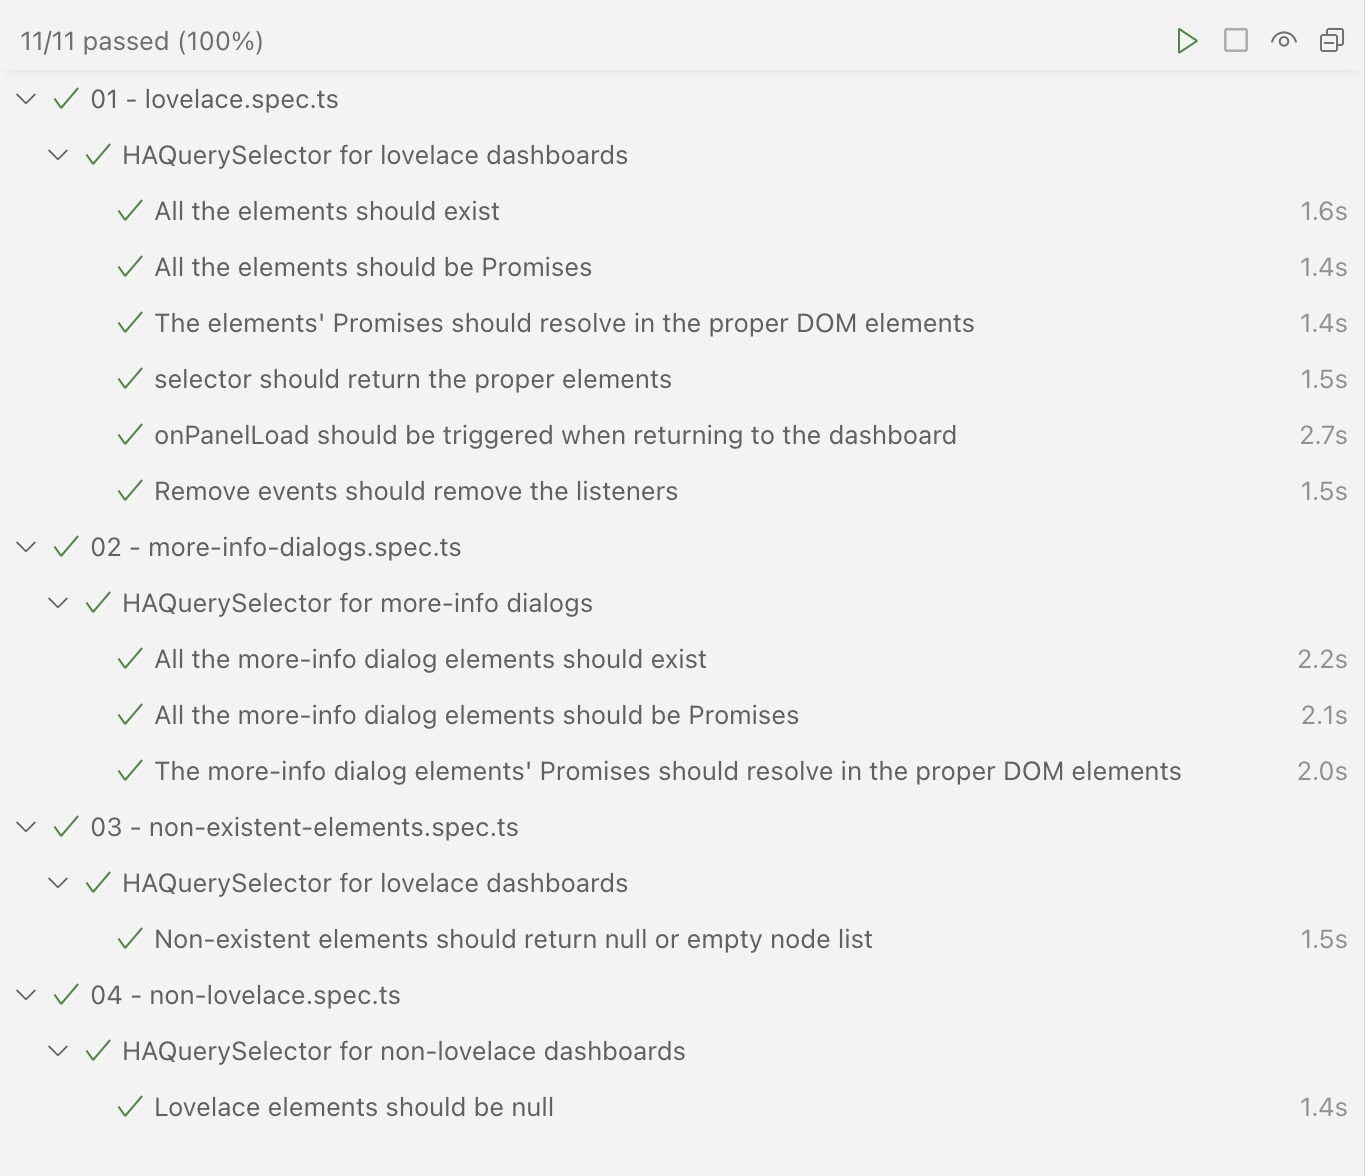
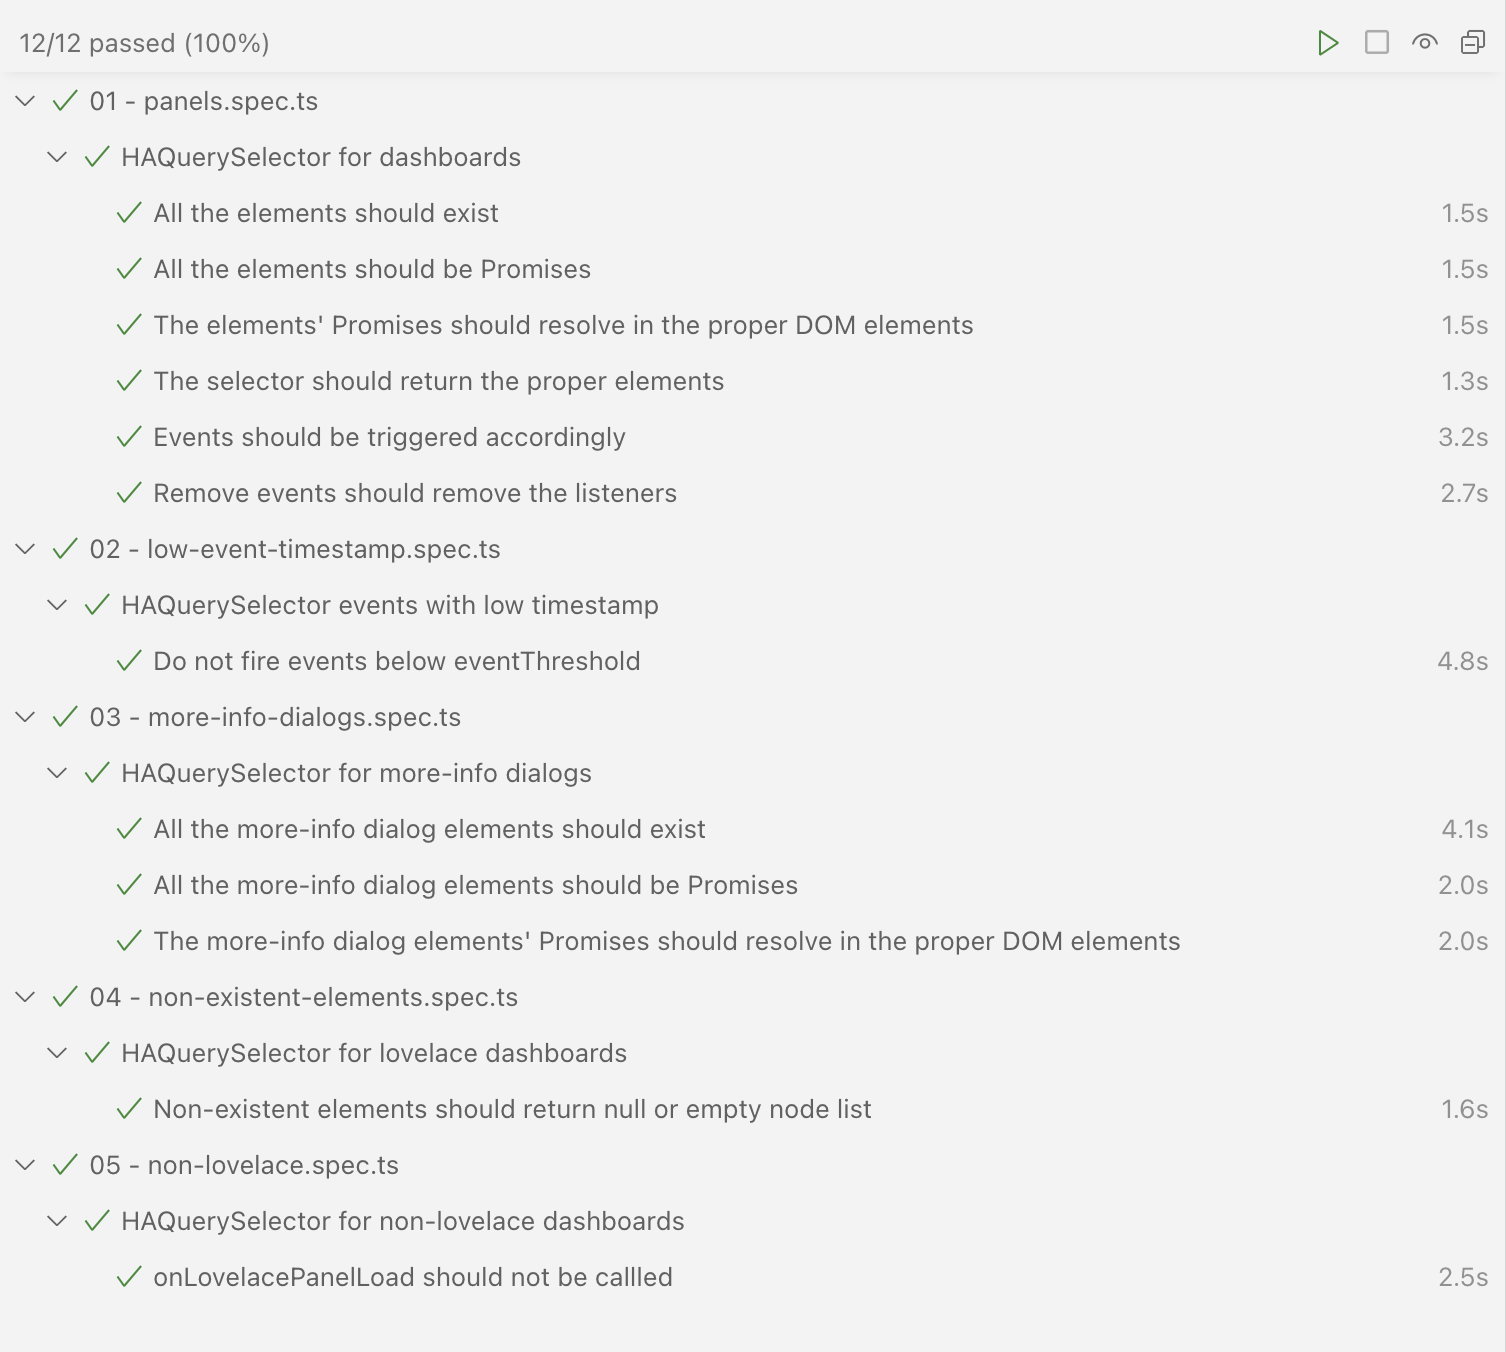
Move event threshold to a configurable option of the library (#48)
* Move event threshold to a configurable option of the library

* Test the eventThreshold property

* Add a delay before starting the eventThreshold tests

* Refactor eventThreshold tests

diff --git a/tests/03 - more-info-dialogs.spec.ts b/tests/03 - more-info-dialogs.spec.ts
@@ -22,21 +22,9 @@ test.describe('HAQuerySelector for more-info dialogs', () => {
 
     test('All the more-info dialog elements should exist', async ({ page }) => {
 
-        let onMoreInfoDialogOpenCalled = await page.evaluate(() => {
-            return window.__onMoreInfoDialogOpen.calledOnce;
-        });
-
-        let onHistoryAndLogBookDialogOpenCalled = await page.evaluate(() => {
-            return window.__onHistoryAndLogBookDialogOpen.calledOnce;
-        });
-
-        let onSettingsDialogOpenCalled = await page.evaluate(() => {
-            return window.__onSettingsDialogOpen.calledOnce;
-        });
-
-        expect(onMoreInfoDialogOpenCalled).toBe(false);
-        expect(onHistoryAndLogBookDialogOpenCalled).toBe(false);
-        expect(onSettingsDialogOpenCalled).toBe(false);
+        expect(await page.evaluate(() => window.__onMoreInfoDialogOpen.calledOnce)).toBe(false);
+        expect(await page.evaluate(() => window.__onHistoryAndLogBookDialogOpen.calledOnce)).toBe(false);
+        expect(await page.evaluate(() => window.__onSettingsDialogOpen.calledOnce)).toBe(false);
 
         // Open a more-info dialog
         await page.locator(SELECTORS.ENTITY_CARD).click();
@@ -44,21 +32,9 @@ test.describe('HAQuerySelector for more-info dialogs', () => {
         await expect(page.locator(SELECTORS.CLOSE_DIALOG)).toBeVisible();
 
         // Only onMoreInfoDialogOpen should be triggered
-        onMoreInfoDialogOpenCalled = await page.evaluate(() => {
-            return window.__onMoreInfoDialogOpen.calledOnce;
-        });
-
-        onHistoryAndLogBookDialogOpenCalled = await page.evaluate(() => {
-            return window.__onHistoryAndLogBookDialogOpen.calledOnce;
-        });
-
-        onSettingsDialogOpenCalled = await page.evaluate(() => {
-            return window.__onSettingsDialogOpen.calledOnce;
-        });
-
-        expect(onMoreInfoDialogOpenCalled).toBe(true);
-        expect(onHistoryAndLogBookDialogOpenCalled).toBe(false);
-        expect(onSettingsDialogOpenCalled).toBe(false);
+        expect(await page.evaluate(() => window.__onMoreInfoDialogOpen.calledOnce)).toBe(true);
+        expect(await page.evaluate(() => window.__onHistoryAndLogBookDialogOpen.calledOnce)).toBe(false);
+        expect(await page.evaluate(() => window.__onSettingsDialogOpen.calledOnce)).toBe(false);
 
         // Check the shape of the onMoreInfoDialogOpen
         const onMoreInfoDialogOpenElements = await page.evaluate(() => window.__onMoreInfoDialogOpen.firstCall.firstArg.detail);
@@ -70,26 +46,16 @@ test.describe('HAQuerySelector for more-info dialogs', () => {
             HA_MORE_INFO_DIALOG_INFO: {}
         });
 
+        await page.waitForTimeout(500);
+
         // Open the history and logbook
         await page.locator(SELECTORS.DIALOG_HISTORY_BUTTON).click();
         await expect(page.locator(SELECTORS.DIALOG_HISTORY_PANEL)).toBeVisible();
 
         // Only the onHistoryAndLogBookDialogOpen should be triggered
-        onMoreInfoDialogOpenCalled = await page.evaluate(() => {
-            return window.__onMoreInfoDialogOpen.calledOnce;
-        });
-
-        onHistoryAndLogBookDialogOpenCalled = await page.evaluate(() => {
-            return window.__onHistoryAndLogBookDialogOpen.calledOnce;
-        });
-
-        onSettingsDialogOpenCalled = await page.evaluate(() => {
-            return window.__onSettingsDialogOpen.calledOnce;
-        });
-
-        expect(onMoreInfoDialogOpenCalled).toBe(true);
-        expect(onHistoryAndLogBookDialogOpenCalled).toBe(true);
-        expect(onSettingsDialogOpenCalled).toBe(false);
+        expect(await page.evaluate(() => window.__onMoreInfoDialogOpen.calledOnce)).toBe(true);
+        expect(await page.evaluate(() => window.__onHistoryAndLogBookDialogOpen.calledOnce)).toBe(true);
+        expect(await page.evaluate(() => window.__onSettingsDialogOpen.calledOnce)).toBe(false);
 
         // Check the shape of the onHistoryAndLogBookDialogOpen
         const onHistoryAndLogBookDialogOpenElements = await page.evaluate(() => window.__onHistoryAndLogBookDialogOpen.firstCall.firstArg.detail);
@@ -101,47 +67,27 @@ test.describe('HAQuerySelector for more-info dialogs', () => {
             HA_DIALOG_MORE_INFO_HISTORY_AND_LOGBOOK: {}
         });
 
+        await page.waitForTimeout(500);
+
         // Return to the more-info dialog
         await page.locator(SELECTORS.DIALOG_GO_BACK_BUTTON).click();
         await expect(page.locator(SELECTORS.CLOSE_DIALOG)).toBeVisible();
 
         // onMoreInfoDialogOpen should be triggered twice
-        onMoreInfoDialogOpenCalled = await page.evaluate(() => {
-            return window.__onMoreInfoDialogOpen.calledTwice;
-        });
+        expect(await page.evaluate(() => window.__onMoreInfoDialogOpen.calledTwice)).toBe(true);
+        expect(await page.evaluate(() => window.__onHistoryAndLogBookDialogOpen.calledOnce)).toBe(true);
+        expect(await page.evaluate(() => window.__onSettingsDialogOpen.calledOnce)).toBe(false);
 
-        onHistoryAndLogBookDialogOpenCalled = await page.evaluate(() => {
-            return window.__onHistoryAndLogBookDialogOpen.calledOnce;
-        });
-
-        onSettingsDialogOpenCalled = await page.evaluate(() => {
-            return window.__onSettingsDialogOpen.calledOnce;
-        });
-
-        expect(onMoreInfoDialogOpenCalled).toBe(true);
-        expect(onHistoryAndLogBookDialogOpenCalled).toBe(true);
-        expect(onSettingsDialogOpenCalled).toBe(false);
+        await page.waitForTimeout(500);
 
         // Open the config
         await page.locator(SELECTORS.DIALOG_CONFIG_BUTTON).click();
         await expect(page.locator(SELECTORS.DIALOG_SETTINGS_PANEL)).toBeVisible();
 
         // Only onSettingsDialogOpen should be triggered
-        onMoreInfoDialogOpenCalled = await page.evaluate(() => {
-            return window.__onMoreInfoDialogOpen.calledTwice;
-        });
-
-        onHistoryAndLogBookDialogOpenCalled = await page.evaluate(() => {
-            return window.__onHistoryAndLogBookDialogOpen.calledOnce;
-        });
-
-        onSettingsDialogOpenCalled = await page.evaluate(() => {
-            return window.__onSettingsDialogOpen.calledOnce;
-        });
-
-        expect(onMoreInfoDialogOpenCalled).toBe(true);
-        expect(onHistoryAndLogBookDialogOpenCalled).toBe(true);
-        expect(onSettingsDialogOpenCalled).toBe(true);
+        expect(await page.evaluate(() => window.__onMoreInfoDialogOpen.calledTwice)).toBe(true);
+        expect(await page.evaluate(() => window.__onHistoryAndLogBookDialogOpen.calledOnce)).toBe(true);
+        expect(await page.evaluate(() => window.__onSettingsDialogOpen.calledOnce)).toBe(true);
 
         // Check the shape of the onSettingsDialogOpen
         const onSettingsDialogOpenElements = await page.evaluate(() => window.__onSettingsDialogOpen.firstCall.firstArg.detail);
@@ -153,26 +99,16 @@ test.describe('HAQuerySelector for more-info dialogs', () => {
             HA_DIALOG_MORE_INFO_SETTINGS: {}
         });
 
+        await page.waitForTimeout(500);
+
         // Return to the more-info dialog
         await page.locator(SELECTORS.DIALOG_GO_BACK_BUTTON).click();
         await expect(page.locator(SELECTORS.CLOSE_DIALOG)).toBeVisible();
 
         // onMoreInfoDialogOpen should be triggered thrice
-        onMoreInfoDialogOpenCalled = await page.evaluate(() => {
-            return window.__onMoreInfoDialogOpen.calledThrice;
-        });
-
-        onHistoryAndLogBookDialogOpenCalled = await page.evaluate(() => {
-            return window.__onHistoryAndLogBookDialogOpen.calledOnce;
-        });
-
-        onSettingsDialogOpenCalled = await page.evaluate(() => {
-            return window.__onSettingsDialogOpen.calledOnce;
-        });
-
-        expect(onMoreInfoDialogOpenCalled).toBe(true);
-        expect(onHistoryAndLogBookDialogOpenCalled).toBe(true);
-        expect(onSettingsDialogOpenCalled).toBe(true);
+        expect(await page.evaluate(() => window.__onMoreInfoDialogOpen.calledThrice)).toBe(true);
+        expect(await page.evaluate(() => window.__onHistoryAndLogBookDialogOpen.calledOnce)).toBe(true);
+        expect(await page.evaluate(() => window.__onSettingsDialogOpen.calledOnce)).toBe(true);
 
     });
 

diff --git a/tests/02 - low-event-timestamp.spec.ts b/tests/02 - low-event-timestamp.spec.ts
@@ -1,0 +1,54 @@
+import { test, expect } from 'playwright-test-coverage';
+import { SELECTORS } from './constants';
+import { stubGlobalTestElements } from './utils';
+
+test.describe('HAQuerySelector events with low timestamp', () => {
+
+    test.beforeEach(async ({ page, context }) => {
+        return stubGlobalTestElements(
+            page,
+            context,
+            {
+                eventThreshold: 800
+            }
+        );
+	});
+
+    test('Do not fire events below eventThreshold', async ({ page }) => {
+
+        const links = 'paper-listbox > a[role="option"]';
+
+        expect(await page.evaluate(() => window.__onPanelLoad.calledOnce)).toBe(true);
+        expect(await page.evaluate(() => window.__onLovelacePanelLoad.calledOnce)).toBe(true);
+
+        await page.locator(links, { hasText: 'History' }).click();
+        await expect(page.locator(SELECTORS.HEADER_HISTORY)).toBeVisible();
+
+        expect(await page.evaluate(() => window.__onPanelLoad.calledTwice)).toBe(false);
+        expect(await page.evaluate(() => window.__onLovelacePanelLoad.calledTwice)).toBe(false);
+
+        await page.locator(links, { hasText: 'Overview' }).click();
+        await expect(page.locator(SELECTORS.ENTITY_CARD)).toBeVisible();
+
+        expect(await page.evaluate(() => window.__onPanelLoad.calledThrice)).toBe(false);
+        expect(await page.evaluate(() => window.__onLovelacePanelLoad.calledTwice)).toBe(false);
+
+        await page.waitForTimeout(1500);
+
+        await page.locator(links, { hasText: 'History' }).click();
+        await expect(page.locator(SELECTORS.HEADER_HISTORY)).toBeVisible();
+
+        expect(await page.evaluate(() => window.__onPanelLoad.calledTwice)).toBe(true);
+        expect(await page.evaluate(() => window.__onLovelacePanelLoad.calledTwice)).toBe(false);
+
+        await page.waitForTimeout(1500);
+
+        await page.locator(links, { hasText: 'Overview' }).click();
+        await expect(page.locator(SELECTORS.ENTITY_CARD)).toBeVisible();
+
+        expect(await page.evaluate(() => window.__onPanelLoad.calledThrice)).toBe(true);
+        expect(await page.evaluate(() => window.__onLovelacePanelLoad.calledTwice)).toBe(true);
+
+    });
+
+});

diff --git a/tests/utils.ts b/tests/utils.ts
@@ -2,12 +2,12 @@ import { Page, BrowserContext } from '@playwright/test';
 import { expect } from 'playwright-test-coverage';
 import path from 'path';
 import { BASE_URL, SELECTORS } from './constants';
-import { DEFAULT_CONFIG } from '../src/constants';
 
 interface Options {
     pathname?: string;
-    retries?: number
-    delay?: number
+    retries?: number;
+    delay?: number;
+    eventThreshold?: number;
 }
 
 export const stubGlobalTestElements = async (
@@ -40,13 +40,14 @@ export const stubGlobalTestElements = async (
 
     await page.evaluate((options: Options) => {
 
-        const { retries, delay } = options;
+        const { retries, delay, eventThreshold } = options;
         const { HAQuerySelector, HAQuerySelectorEvent } = window.HAQuerySelectorBundle;
 
-        window.__instance = retries || delay
+        window.__instance = retries || delay || eventThreshold
             ? new HAQuerySelector({
-                retries: retries || DEFAULT_CONFIG.retries,
-                delay: delay || DEFAULT_CONFIG.delay
+                retries: retries || 100,
+                delay: delay || 50,
+                eventThreshold: eventThreshold || 450
             })
             : new HAQuerySelector();
         

diff --git a/src/index.ts b/src/index.ts
@@ -9,7 +9,6 @@ import {
     HA_ROOT_ELEMENT,
     HA_LOVELACE_ELEMENT,
     HA_DIALOG_ELEMENT,
-    TIMESTAMP_THESHOLD,
     HAQuerySelectorEvent
 } from '@constants';
 import {
@@ -91,7 +90,7 @@ class HAQuerySelector extends DelegatedEventTarget {
         this._timestaps = {};
     }
 
-    private _config: HAQuerySelectorConfig;
+    private _config: Required<HAQuerySelectorConfig>;
 
     private _dialogTree: HomeAssistantElement;
     private _homeAssistantRootTree: HomeAssistantElement;
@@ -116,7 +115,7 @@ class HAQuerySelector extends DelegatedEventTarget {
     private _dispatchEvent(type: HAQuerySelectorEvent, detail?: Record<string, HAElement>) {
         // Avoid triggering an event twice in a short timestamp
         const timestamp = Date.now();
-        if (timestamp - this._timestaps[type] < TIMESTAMP_THESHOLD) {
+        if (timestamp - this._timestaps[type] < this._config.eventThreshold) {
             return;
         }
         this._timestaps[type] = timestamp;

diff --git a/tests/01 - panels.spec.ts b/tests/01 - panels.spec.ts
@@ -2,7 +2,7 @@ import { test, expect } from 'playwright-test-coverage';
 import { SELECTORS } from './constants';
 import { stubGlobalTestElements } from './utils';
 
-test.describe('HAQuerySelector for lovelace dashboards', () => {
+test.describe('HAQuerySelector for dashboards', () => {
 
     test.beforeEach(async ({ page, context }) => {
         return stubGlobalTestElements(page, context);
@@ -206,6 +206,8 @@ test.describe('HAQuerySelector for lovelace dashboards', () => {
         expect(await page.evaluate(() => window.__onListen.calledOnce)).toBe(true);
         expect(await page.evaluate(() => window.__onPanelLoad.calledOnce)).toBe(true);
         expect(await page.evaluate(() => window.__onLovelacePanelLoad.calledOnce)).toBe(true);
+
+        await page.waitForTimeout(500);
 
         await page.locator(links, { hasText: 'History' }).click();
         await expect(page.locator(SELECTORS.HEADER_HISTORY)).toBeVisible();

diff --git a/src/@types/index.ts b/src/@types/index.ts
@@ -1,6 +1,8 @@
 import { AsyncSelector, AsyncParams } from 'shadow-dom-selector';
 
-export type HAQuerySelectorConfig = AsyncParams;
+export type HAQuerySelectorConfig = AsyncParams & {
+    eventThreshold?: number;
+};
 
 export type NodeDescriptorProps = {
     selector: string,

diff --git a/src/constants/index.ts b/src/constants/index.ts
@@ -1,10 +1,9 @@
 export const $ = '$';
 
-export const TIMESTAMP_THESHOLD = 50;
-
 export const DEFAULT_CONFIG = {
     retries: 100,
-    delay: 50
+    delay: 50,
+    eventThreshold: 450
 };
 
 export enum HA_ROOT_ELEMENT {

diff --git a/README.md b/README.md
@@ -154,13 +154,15 @@ new HAQuerySelector([config])
 {
     retries?: number;
     delay?: number;
+    eventThreshold?: number;
 }
 ```
 
-| Parameter    | Optional      | Description                                         |
-| ------------ | ------------- | --------------------------------------------------- |
-| retries      | yes           | How many retries before giving up (defaults to 100) |
-| delay        | yes           | Delay between each retry (defaults to 50)           |
+| Parameter      | Optional      | Description                                         |
+| -------------- | ------------- | --------------------------------------------------- |
+| retries        | yes           | How many retries trying to find an element in the DOM tree before giving up (defaults to 100) |
+| delay          | yes           | Delay between each retry trying to find an element in the DOM tree (defaults to 50)           |
+| eventThreshold | yes           | Timestamp threshold to fire an event. If two consecutive events of the same type have a timestamp difference lower than this value, the second event will be ignored (defaults to 450) |
 
 ### Public methods
 

diff --git a/CHANGELOG.md b/CHANGELOG.md
@@ -1,5 +1,9 @@
 # Changelog
 
+## [4.1.0] - 2024-01-13
+
+- Make the event threshold a property that can be sent by the clients instead a constant. With this change the event threshold has been changed from `50` to `450`.
+
 ## [4.0.0] - 2024-01-04
 
 - Breaking change: refactored the event names and created a new event (an event that will be triggered if any panel is loaded not only a lovelace panel)
